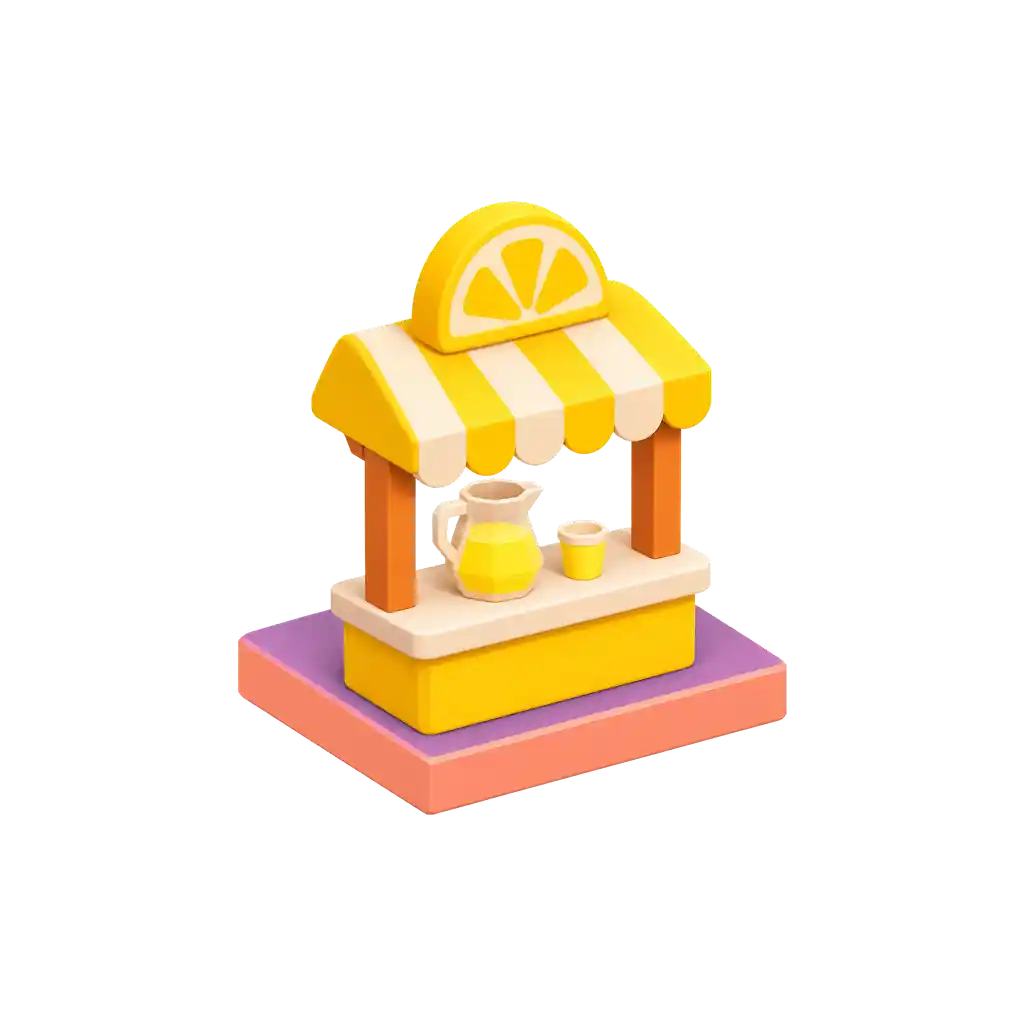
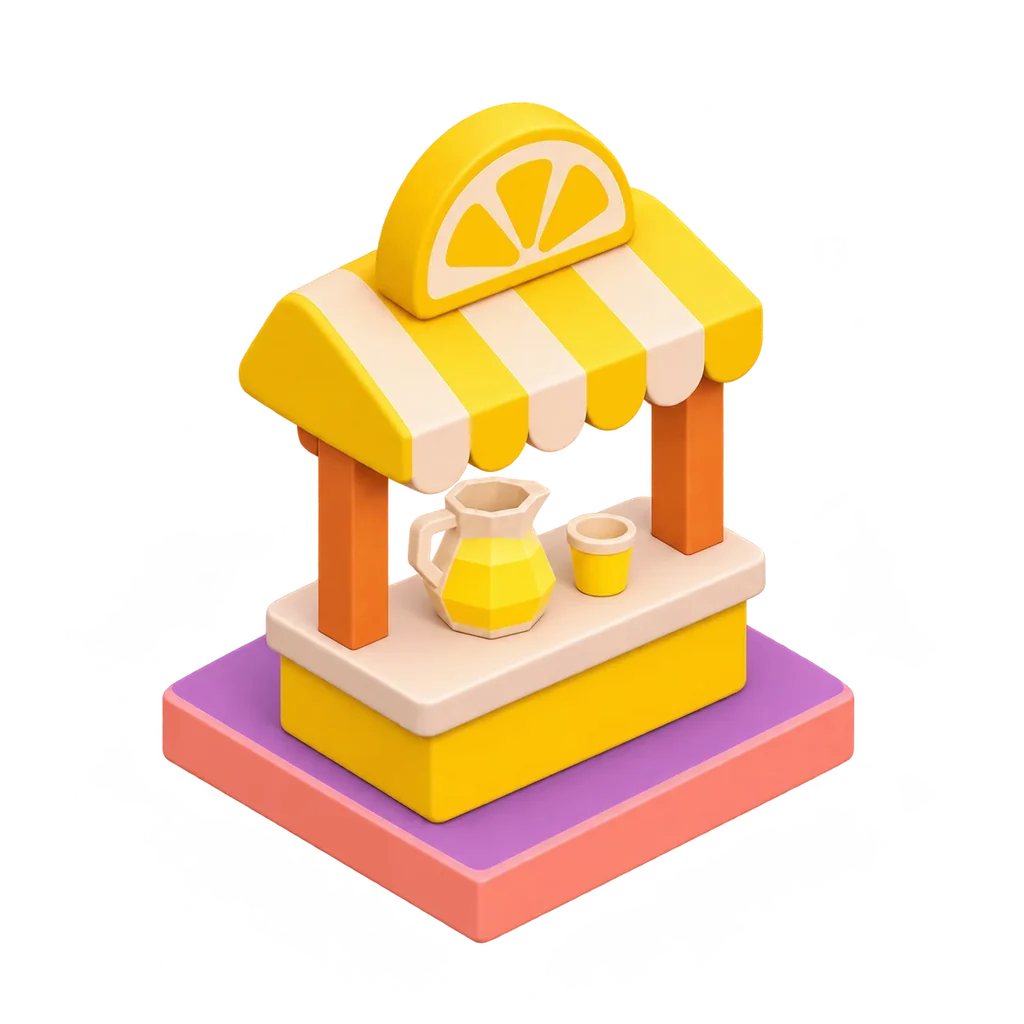
Lemonade Stand re-export (new angle)
New Lemonade Stand painting at the new camera angle, resized to
     1024x1024 (86 KB) and measured from the new image. Build 2026111069.

Changed region(s): [[0.1562, 0.0938, 0.8438, 0.9375]]

diff --git a/index.html b/index.html
@@ -947,7 +947,7 @@ let VB=setTop(-118);
 // Painted building art: businesses listed here show an image (1024x1024, transparent, island base ~90% down) instead of the drawn building.
 // Painted building art: one 1024x1024 transparent WebP per business, in img/<code>.webp, used on the city and in every picture of it.
 // The numbers are the box the building actually fills inside the image (left, top, right, bottom), so each one is sized and placed the same way.
-const BIMG={abd:[107,105,917,954],lem:[238,201,787,815],clf:[111,79,911,919],ffr:[108,101,910,916],mdc:[112,132,911,922],plp:[121,60,906,938]};
+const BIMG={abd:[107,105,917,954],lem:[162,102,855,944],clf:[111,79,911,919],ffr:[108,101,910,916],mdc:[112,132,911,922],plp:[121,60,906,938]};
 const bimgUrl=c=>`img/${c}.webp`;
 const BIMG_W=258; // the widest a painted building shows, in stage units (the drawn buildings are about 214 wide)
 const BIMG_H=BIMG_W*797/802; // and the tallest (so tall, narrow buildings aren't blown up past the others)
@@ -1016,7 +1016,7 @@ MIS.forEach(([g,steps],gi)=>steps.forEach(([d,f,r],i)=>ACH.push(['m'+gi+'_'+i,g+
 /* ================= state ================= */
 // Save format: never rename SAVE_KEY. Businesses are stored by their code, not their list position,
 // so adding, removing or reordering businesses in an update keeps everyone's progress.
-/*build*/const BUILD=2026111068,MUST=2026110820;/*notes*/const NOTES=["Improvements and fixes."];
+/*build*/const BUILD=2026111069,MUST=2026110820;/*notes*/const NOTES=["Improvements and fixes."];
 let pmWant=false,pmLater=null,clockAnchor=null;let clockOff=0,clockChecked=false,clockWait=true;const OFF_CAP=2*36e5,CLOCK_GUARD=!!String((window.TRILLIONAIRE_CONFIG||{}).supabaseUrl||'').trim();
 const SAVE_KEY='trillionaire.save',OLD_KEYS=['mogul.tycoon.v3'],SAVE_VER=4,now=()=>{let d=CLOCK_GUARD&&clockChecked&&clockAnchor?clockAnchor.srv+(performance.now()-clockAnchor.perf):Date.now()+clockOff;if(s){
  if(CLOCK_GUARD){if(!(s.verT>0))s.verT=Math.min(d,Math.max(s.last||0,s.savedAt||0)||d);if(clockChecked){if(d>s.verT)s.verT=d}else if(!s.pm){const lim=s.verT+(clockWait?0:OFF_CAP);if(d>lim){d=lim;if(!clockWait)pmWant=true}}}
